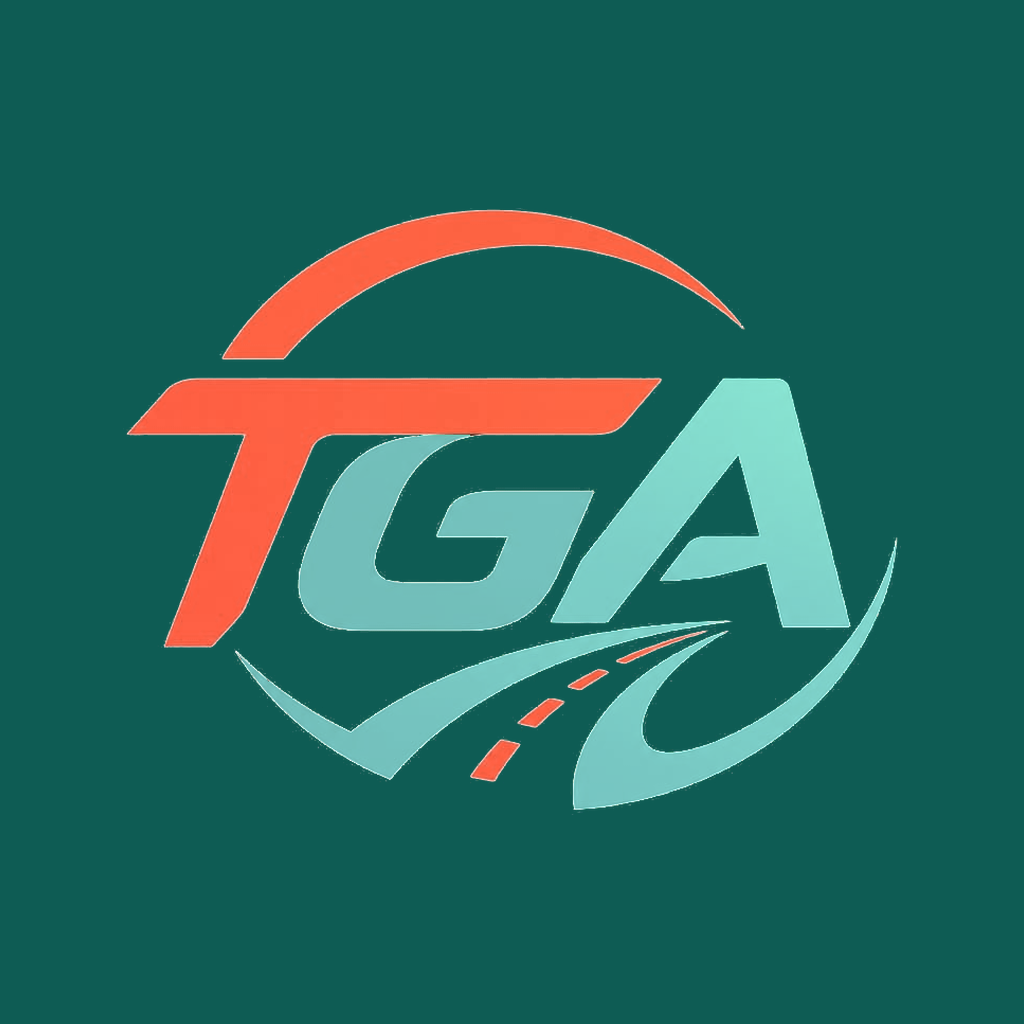
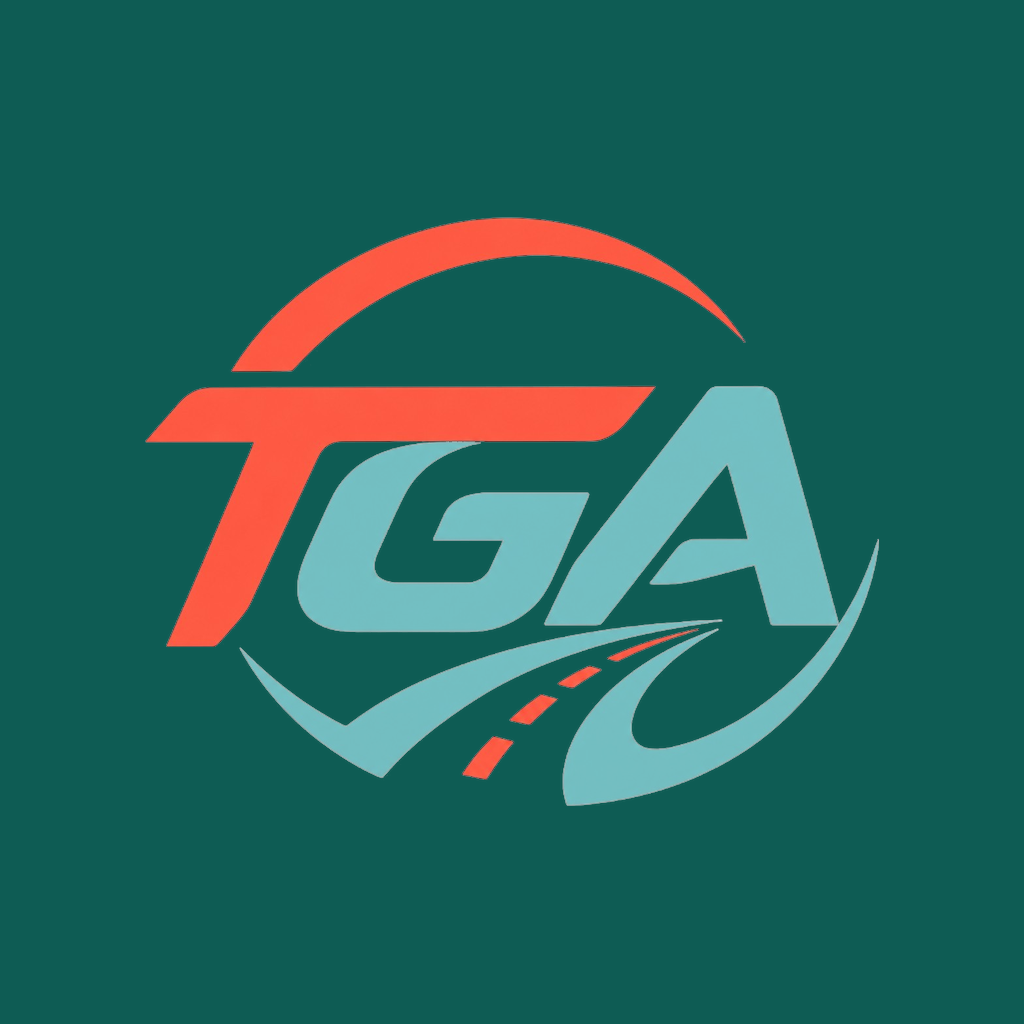
Logótipo novo em todo o lado
Desenho do Simão (desenho/imagens/Novo logo.jpg, fora do repositório).
scripts/gerar-logotipos.py monta dele os dez ficheiros, com as MESMAS
telas e nomes dos que substitui — 512x448 e 256x200 — para nada mudar de
tamanho nos oito ecrãs que usam o componente Logo.

- logo-completo e logo-marca, e as variantes claras para os ecrãs teal.
- icon.png (marca clara sobre teal), adaptive-icon.png (mais pequena,
  porque o Android recorta a frente num círculo) e splash-icon.png.
- favicon, e as duas imagens da ficha da Play Store.

O fundo preto sai por ser PRETO e não pelas bordas: dentro das letras há
vazios (o G, o A, a estrada) que um balde de tinta lançado das bordas
nunca alcançaria. O desenho não tem preto nenhum, logo tudo o que é
escuro é fundo.

A variante clara sobe a luminosidade dos teais e deixa o coral em paz,
como a nota do Logo.js descreve.

Ficou MAIS LEVE: os ficheiros do logótipo que entram no APK passaram de
1112 KB para 921 KB.

O ícone da app, o arranque e o ícone adaptativo são recursos nativos:
só mudam num APK novo, não por actualização pelo ar.

diff --git a/mobile/scripts/gerar-logotipos.py b/mobile/scripts/gerar-logotipos.py
@@ -1,0 +1,136 @@
+#!/usr/bin/env python3
+"""Gera todos os ficheiros do logótipo a partir do desenho do Simão.
+
+ENTRADA: desenho/imagens/Novo logo.jpg (fora do repositório) — o TGA com a
+palavra "timorgiana ride", em coral e teal sobre PRETO.
+
+SAÍDA, com as mesmas telas e nomes dos ficheiros que substitui, para nada
+mudar de tamanho nos ecrãs:
+  assets/logo-completo{,-claro}.png   512x448  (TGA + palavra)
+  assets/logo-marca{,-claro}.png      256x200  (só o TGA)
+  assets/icon.png                     1024     (ícone da app, teal opaco)
+  assets/adaptive-icon.png            1024     (frente do ícone Android)
+  assets/splash-icon.png              1024     (arranque, sobre teal)
+  assets/favicon.png                  48
+  ../loja/icone-512.png               512      (ficha da Play Store)
+  ../loja/destaque-1024x500.png       1024x500 (imagem de destaque)
+
+O FUNDO SAI POR SER PRETO, e não pelas bordas: dentro das letras há vazios
+(o G, o A, a estrada) que também são fundo e que um balde de tinta lançado
+das bordas nunca alcançaria. Aqui a regra é outra — o desenho não tem preto
+nenhum, logo tudo o que é escuro é fundo.
+
+A VARIANTE CLARA sobe a luminosidade dos TEAIS e deixa o coral em paz, que já
+contrasta sobre o teal escuro dos ecrãs. É a regra que o componente Logo.js
+descreve, e existia nos ficheiros antigos.
+
+Correr:  python3 scripts/gerar-logotipos.py
+Precisa: Pillow
+"""
+
+import os
+from PIL import Image
+
+TEAL = (14, 92, 84)  # o fundo teal da marca, o mesmo do app.json
+
+
+def sem_preto(caminho, limiar_baixo=10, limiar_alto=46):
+    im = Image.open(caminho).convert('RGB')
+    w, h = im.size
+    px = im.load()
+    alfa = Image.new('L', (w, h), 0)
+    ap = alfa.load()
+    for y in range(h):
+        for x in range(w):
+            v = max(px[x, y])
+            ap[x, y] = 0 if v <= limiar_baixo else (
+                255 if v >= limiar_alto else int((v - limiar_baixo) * 255 / (limiar_alto - limiar_baixo))
+            )
+    fora = im.convert('RGBA')
+    fora.putalpha(alfa)
+    return fora.crop(alfa.getbbox())
+
+
+def aclarar(imagem, quanto=0.45):
+    """Sobe a luminosidade dos teais; o coral fica como está."""
+    im = imagem.copy()
+    px = im.load()
+    for y in range(im.height):
+        for x in range(im.width):
+            r, g, b, a = px[x, y]
+            if a and (g > r * 1.15 and b > r * 1.05):
+                px[x, y] = (
+                    int(r + (255 - r) * quanto),
+                    int(g + (255 - g) * quanto),
+                    int(b + (255 - b) * quanto),
+                    a,
+                )
+    return im
+
+
+def partir(imagem):
+    """Separa o símbolo (em cima) da palavra (em baixo) pela faixa vazia."""
+    alfa = imagem.getchannel('A')
+    linhas = [max(alfa.crop((0, y, imagem.width, y + 1)).getextrema()) for y in range(imagem.height)]
+    vazias = [y for y, v in enumerate(linhas) if v < 8]
+    # A faixa vazia mais longa abaixo do meio é a que separa os dois.
+    melhor, atual = (0, 0), []
+    for y in vazias:
+        if y < imagem.height * 0.5:
+            continue
+        if atual and y == atual[-1] + 1:
+            atual.append(y)
+        else:
+            atual = [y]
+        if len(atual) > melhor[1] - melhor[0]:
+            melhor = (atual[0], atual[-1])
+    corte = (melhor[0] + melhor[1]) // 2 if melhor[1] else imagem.height
+    simbolo = imagem.crop((0, 0, imagem.width, corte))
+    return simbolo.crop(simbolo.getchannel('A').getbbox())
+
+
+def encaixar(desenho, larg, alt, fundo=None, margem=0.04, ocupa=1.0):
+    tela = Image.new('RGBA', (larg, alt), (fundo + (255,)) if fundo else (0, 0, 0, 0))
+    util = (larg * (1 - 2 * margem) * ocupa, alt * (1 - 2 * margem) * ocupa)
+    escala = min(util[0] / desenho.width, util[1] / desenho.height)
+    novo = desenho.resize((max(1, int(desenho.width * escala)), max(1, int(desenho.height * escala))), Image.LANCZOS)
+    tela.paste(novo, ((larg - novo.width) // 2, (alt - novo.height) // 2), novo)
+    return tela
+
+
+def main():
+    aqui = os.path.dirname(os.path.abspath(__file__))
+    origem = os.path.abspath(os.path.join(aqui, '..', '..', 'desenho', 'imagens', 'Novo logo.jpg'))
+    if not os.path.exists(origem):
+        raise SystemExit(f'falta o ficheiro: {origem}')
+    assets = os.path.join(aqui, '..', 'assets')
+    loja = os.path.abspath(os.path.join(aqui, '..', '..', 'loja'))
+
+    completo = sem_preto(origem)
+    completo_claro = aclarar(completo)
+    marca = partir(completo)
+    marca_clara = aclarar(marca)
+
+    saidas = [
+        (encaixar(completo, 512, 448), os.path.join(assets, 'logo-completo.png')),
+        (encaixar(completo_claro, 512, 448), os.path.join(assets, 'logo-completo-claro.png')),
+        (encaixar(marca, 256, 200), os.path.join(assets, 'logo-marca.png')),
+        (encaixar(marca_clara, 256, 200), os.path.join(assets, 'logo-marca-claro.png')),
+        # O ícone da app: a marca clara sobre o teal, como estava.
+        (encaixar(marca_clara, 1024, 1024, fundo=TEAL, ocupa=0.78), os.path.join(assets, 'icon.png')),
+        # A frente do ícone adaptativo do Android fica mais pequena: o sistema
+        # recorta-a num círculo, e o que sair da zona segura desaparece.
+        (encaixar(marca_clara, 1024, 1024, ocupa=0.62), os.path.join(assets, 'adaptive-icon.png')),
+        (encaixar(completo_claro, 1024, 1024, ocupa=0.82), os.path.join(assets, 'splash-icon.png')),
+        (encaixar(marca, 48, 48), os.path.join(assets, 'favicon.png')),
+        (encaixar(marca_clara, 512, 512, fundo=TEAL, ocupa=0.78), os.path.join(loja, 'icone-512.png')),
+        (encaixar(completo_claro, 1024, 500, fundo=TEAL, ocupa=0.72), os.path.join(loja, 'destaque-1024x500.png')),
+    ]
+    for imagem, destino in saidas:
+        imagem.save(destino, optimize=True)
+        print(f'escrito {os.path.relpath(destino, aqui)} {imagem.width}x{imagem.height} '
+              f'{os.path.getsize(destino) // 1024} KB')
+
+
+if __name__ == '__main__':
+    main()
